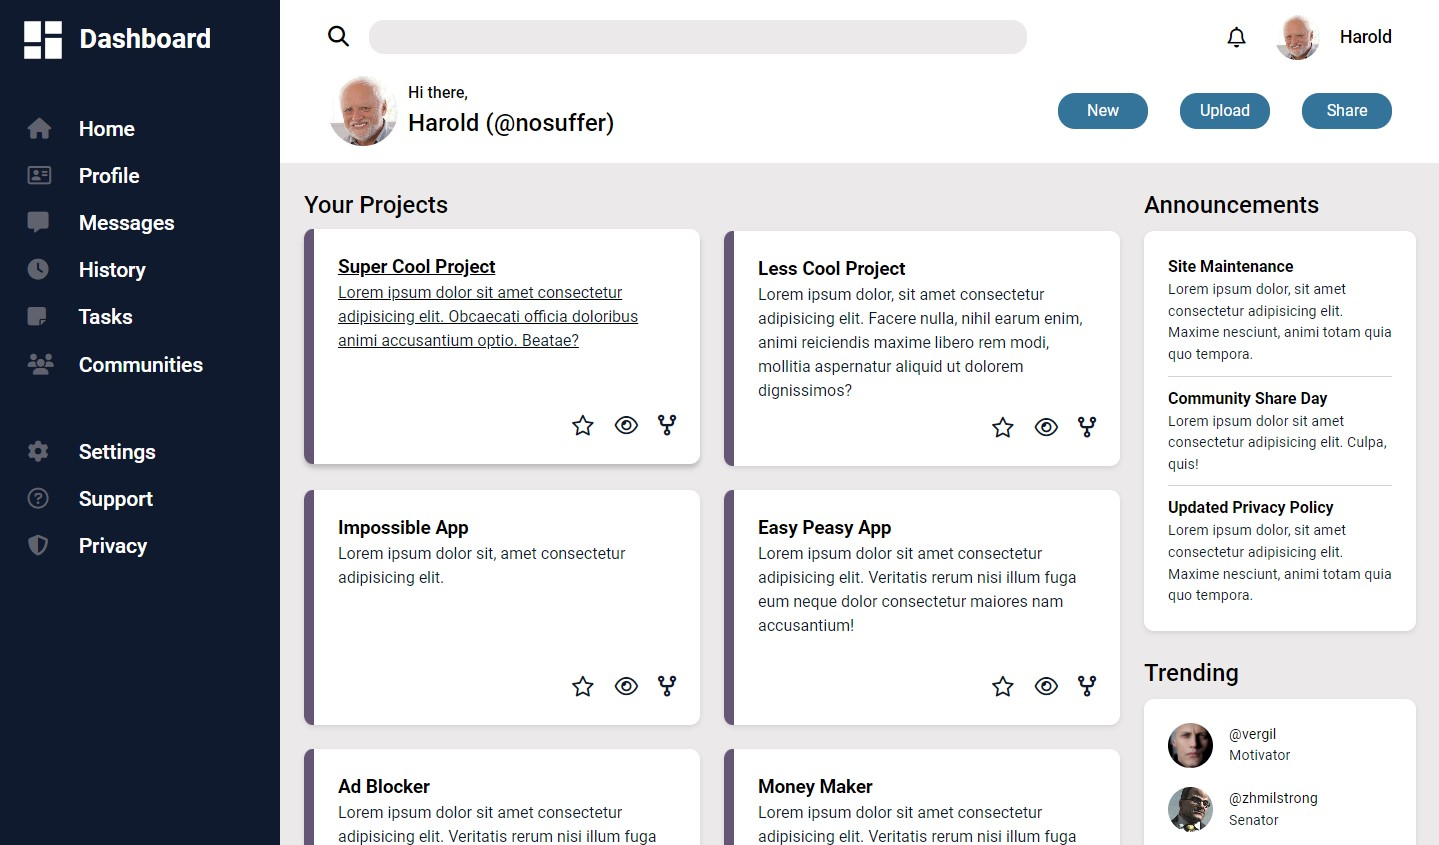
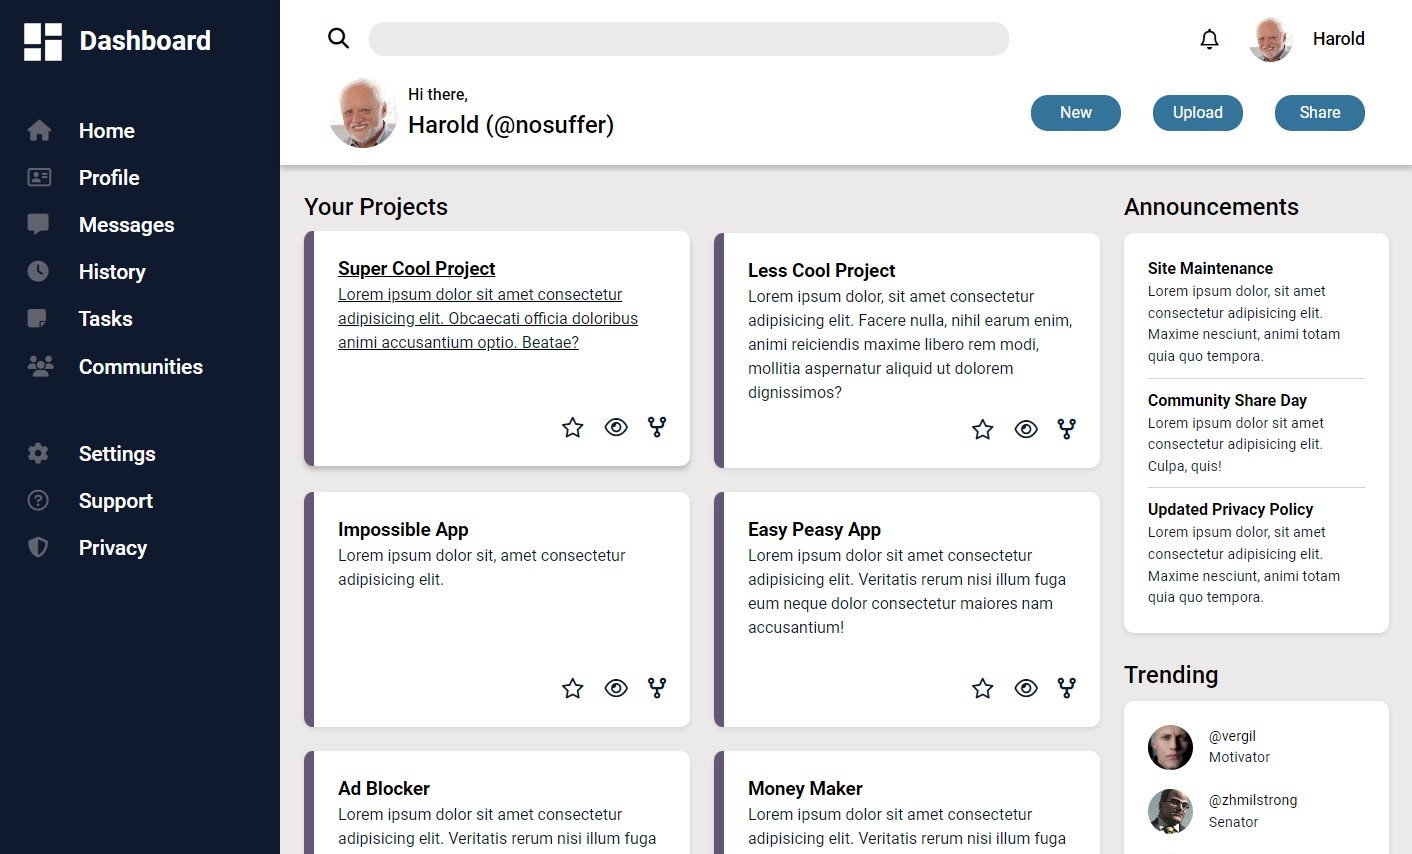
Add shadow 2header

diff --git a/style.css b/style.css
@@ -7,6 +7,8 @@
   --c-accent: #4984ae;
   --c-accent-dark: #655675;
   --c-muted: #60626e;
+  --shadow: 0 2px 5px rgb(0 0 0 / 10%);
+  --shadow-lg: 0 4px 5px rgba(0, 0, 0, 0.2);
 }
 
 /*
@@ -169,6 +171,7 @@ h2 {
 
 .header {
   background: white;
+  box-shadow: var(--shadow-lg);
   display: grid;
   grid-template-columns: 1fr;
   gap: 1rem;
@@ -255,7 +258,7 @@ h2 {
   border-radius: 10px;
   background: white;
   color: black;
-  box-shadow: 0 2px 5px rgb(0 0 0 / 10%);
+  box-shadow: var(--shadow);
   overflow: hidden;
 }
 
@@ -282,7 +285,7 @@ h2 {
 .projects .card:hover {
   top: -2px;
   text-decoration: none;
-  box-shadow: 0 4px 5px rgba(0, 0, 0, 0.2);
+  box-shadow: var(--shadow-lg);
 }
 
 .card-actions {
